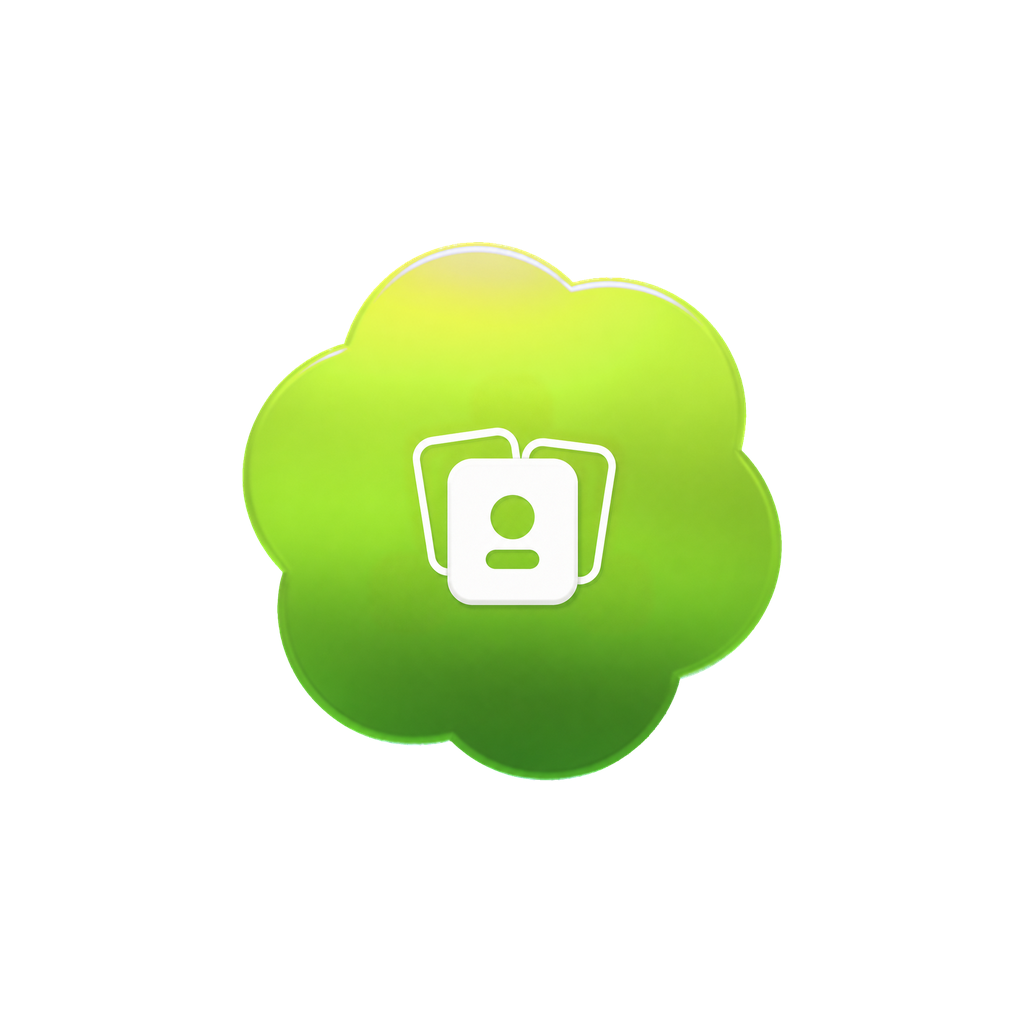
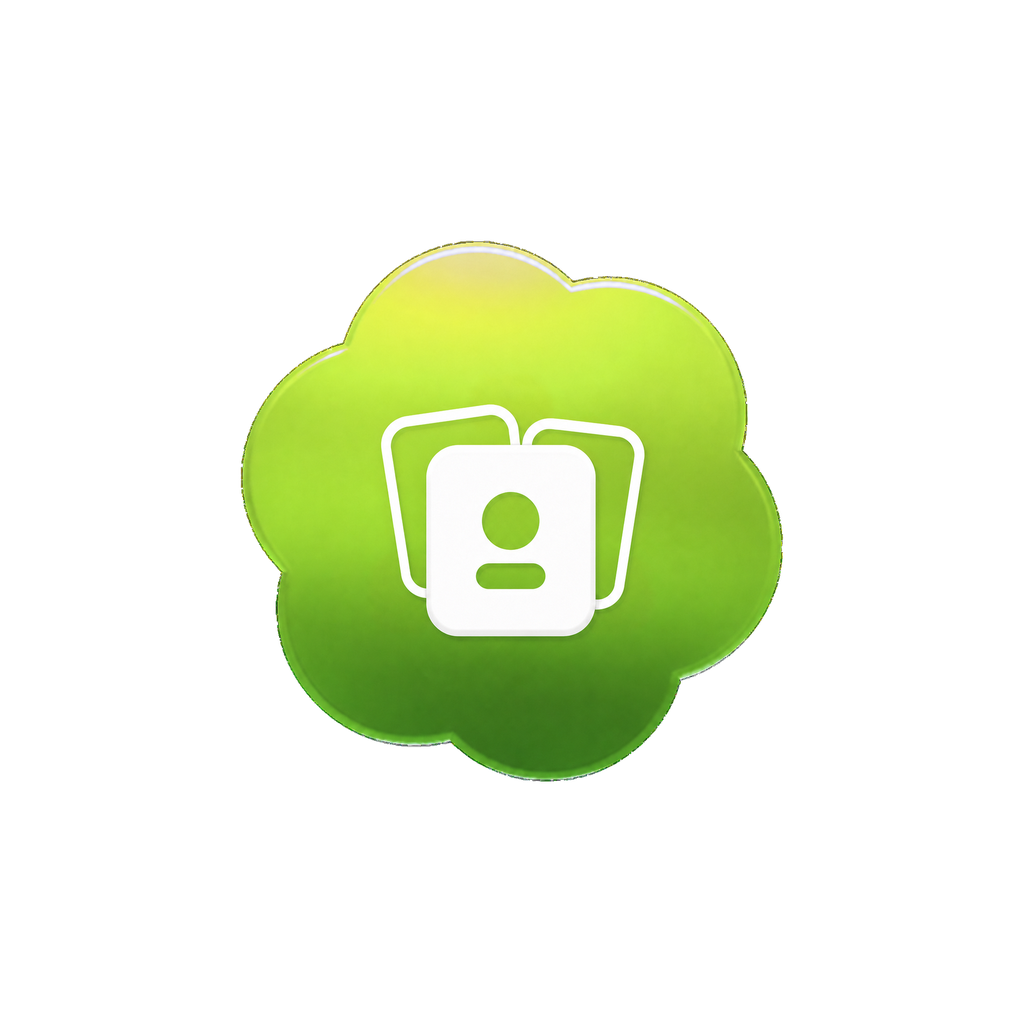
feat: 手机端优化 && logo优化

diff --git a/src/admin/AdminArea.tsx b/src/admin/AdminArea.tsx
@@ -18,6 +18,7 @@ import type {
   AdminDashboardOverview,
   AdminFeedback,
   AdminInvitation,
+  AdminMailService,
   AdminOfficialAccount,
   AdminRole,
   AdminUser,
@@ -905,8 +906,11 @@ function InvitationsPage({ session, profile, onBack }: AdminAreaProps & { onBack
 function FeedbackPage({ session, profile, onBack }: AdminAreaProps & { onBack: () => void }) {
   const [data, setData] = useState<PageResult<AdminFeedback>>(EMPTY_PAGE);
   const [loading, setLoading] = useState(false);
+  const [mailServices, setMailServices] = useState<AdminMailService[]>([]);
+  const [mailServicesLoading, setMailServicesLoading] = useState(false);
   const [selected, setSelected] = useState<AdminFeedback | null>(null);
   const [replying, setReplying] = useState<AdminFeedback | null>(null);
+  const [mailServiceId, setMailServiceId] = useState<string | null>(null);
   const [subject, setSubject] = useState('Codex Switch 问题反馈回复');
   const [content, setContent] = useState('');
   const [replyingBusy, setReplyingBusy] = useState(false);
@@ -917,9 +921,30 @@ function FeedbackPage({ session, profile, onBack }: AdminAreaProps & { onBack: (
     catch (error) { Toast.fail(messageOf(error)); }
     finally { setLoading(false); }
   }, [data.page, data.pageSize, session]);
-  useEffect(() => { void load(1); }, [session]);
+  const loadMailServices = useCallback(async () => {
+    setMailServices([]);
+    setMailServicesLoading(true);
+    try { setMailServices(await adminRequest<AdminMailService[]>(session, '/admin/api/mail-services')); }
+    catch (error) { Toast.fail(`发件服务加载失败：${messageOf(error)}`); }
+    finally { setMailServicesLoading(false); }
+  }, [session]);
+  useEffect(() => {
+    void load(1);
+    void loadMailServices();
+  }, [session]);
+
+  useEffect(() => {
+    if (!replying || mailServicesLoading) return;
+    setMailServiceId((currentId) => {
+      const current = mailServices.find((service) => service.id === currentId);
+      return current?.enabled ? currentId : (mailServices.find((service) => service.enabled)?.id ?? null);
+    });
+  }, [mailServices, mailServicesLoading, replying]);
 
   function openReply(item: AdminFeedback) {
+    const initialService = mailServices.find((service) => service.source === 'default' && service.enabled)
+      ?? mailServices.find((service) => service.enabled);
+    setMailServiceId(initialService?.id ?? null);
     setSubject('Codex Switch 问题反馈回复');
     setContent('');
     setReplying(item);
@@ -927,9 +952,16 @@ function FeedbackPage({ session, profile, onBack }: AdminAreaProps & { onBack: (
 
   async function sendReply() {
     if (!replying || !subject.trim() || !content.trim()) { Toast.fail('请填写主题和回复内容'); return; }
+    if (!mailServices.find((service) => service.id === mailServiceId)?.enabled) {
+      Toast.fail('请选择可用的发件服务');
+      return;
+    }
     setReplyingBusy(true);
     try {
-      await adminRequest(session, `/admin/api/feedback/${replying.id}/email`, { method: 'POST', body: JSON.stringify({ subject, content }) });
+      await adminRequest(session, `/admin/api/feedback/${replying.id}/email`, {
+        method: 'POST',
+        body: JSON.stringify({ subject, content, mailServiceId }),
+      });
       Toast.success('回复邮件已发送');
       setReplying(null);
       setContent('');
@@ -994,10 +1026,51 @@ function FeedbackPage({ session, profile, onBack }: AdminAreaProps & { onBack: (
       tall
       actions={[
         { label: '取消', onPress: () => setReplying(null), disabled: replyingBusy },
-        { label: '发送回复', tone: 'primary', onPress: sendReply, loading: replyingBusy },
+        {
+          label: '发送回复',
+          tone: 'primary',
+          onPress: sendReply,
+          loading: replyingBusy,
+          disabled: mailServicesLoading || !mailServices.find((service) => service.id === mailServiceId)?.enabled,
+        },
       ]}
     >
       <ScrollView style={styles.sheetScroll} keyboardShouldPersistTaps="handled">
+        <Text style={styles.fieldLabel}>发件服务</Text>
+        {mailServicesLoading ? <View style={styles.mailServiceLoading}>
+          <ActivityIndicator color={COLORS.primary} size="small" />
+          <Text style={styles.mailServiceLoadingText}>正在加载发件服务</Text>
+        </View> : mailServices.length ? <View style={styles.mailServiceList}>
+          {mailServices.map((service) => {
+            const checked = service.id === mailServiceId;
+            return <Pressable
+              key={service.id ?? 'default'}
+              accessibilityRole="radio"
+              accessibilityState={{ selected: checked, disabled: !service.enabled }}
+              disabled={!service.enabled || replyingBusy}
+              onPress={() => setMailServiceId(service.id)}
+              style={({ pressed }) => [
+                styles.mailServiceRow,
+                checked && styles.mailServiceRowActive,
+                !service.enabled && styles.disabled,
+                pressed && styles.pressed,
+              ]}
+            >
+              <View style={[styles.radio, checked && styles.radioSelected]}>
+                {checked ? <View style={styles.radioDot} /> : null}
+              </View>
+              <View style={styles.mailServiceCopy}>
+                <Text style={styles.mailServiceName} numberOfLines={1}>
+                  {service.source === 'default' ? '默认服务' : service.name}
+                </Text>
+                <Text style={styles.mailServiceMeta} numberOfLines={2}>
+                  {service.fromAddress ? `发件人：${service.fromAddress}` : '未配置发件人'}
+                  {!service.enabled ? ' · 已停用' : ''}
+                </Text>
+              </View>
+            </Pressable>;
+          })}
+        </View> : <Text style={styles.mailServiceEmpty}>暂无可用的发件服务，请刷新后重试</Text>}
         <Field label="邮件主题" value={subject} onChangeText={setSubject} />
         <Field label="回复内容" value={content} onChangeText={setContent} multiline placeholder="输入对用户问题的回复…" />
       </ScrollView>
@@ -1268,6 +1341,18 @@ const styles = StyleSheet.create({
   input: { minHeight: 48, borderWidth: 1, borderColor: '#d6e0da', borderRadius: 13, color: COLORS.ink, backgroundColor: '#f9fbfa', paddingHorizontal: 13, paddingVertical: 11, fontSize: 14 },
   textarea: { minHeight: 130, lineHeight: 21 },
   fieldHint: { color: COLORS.faint, fontSize: 10, lineHeight: 15, marginTop: 6 },
+  mailServiceLoading: { minHeight: 62, flexDirection: 'row', alignItems: 'center', justifyContent: 'center', gap: 8, borderRadius: 14, backgroundColor: COLORS.canvas, marginBottom: 16 },
+  mailServiceLoadingText: { color: COLORS.muted, fontSize: 12 },
+  mailServiceList: { marginBottom: 16 },
+  mailServiceRow: { minHeight: 62, flexDirection: 'row', alignItems: 'center', borderRadius: 14, borderWidth: 1, borderColor: COLORS.border, backgroundColor: '#f9fbfa', paddingHorizontal: 12, marginBottom: 8 },
+  mailServiceRowActive: { borderColor: '#77c8b5', backgroundColor: '#f0faf6' },
+  radio: { width: 22, height: 22, borderRadius: 11, borderWidth: 1.5, borderColor: '#aebdb5', alignItems: 'center', justifyContent: 'center' },
+  radioSelected: { borderColor: COLORS.primary },
+  radioDot: { width: 12, height: 12, borderRadius: 6, backgroundColor: COLORS.primary },
+  mailServiceCopy: { flex: 1, minWidth: 0, marginLeft: 11 },
+  mailServiceName: { color: COLORS.ink, fontSize: 13, fontWeight: '800' },
+  mailServiceMeta: { color: COLORS.faint, fontSize: 10, lineHeight: 15, marginTop: 3 },
+  mailServiceEmpty: { color: COLORS.faint, fontSize: 12, lineHeight: 18, textAlign: 'center', borderRadius: 14, backgroundColor: COLORS.canvas, padding: 16, marginBottom: 16 },
   switchRow: { minHeight: 66, flexDirection: 'row', alignItems: 'center', justifyContent: 'space-between', borderRadius: 14, backgroundColor: COLORS.canvas, paddingHorizontal: 13, marginBottom: 16 },
   switchCopy: { flex: 1, marginRight: 12 },
   switchLabel: { color: COLORS.ink, fontSize: 13, fontWeight: '800' },

diff --git a/src/types.ts b/src/types.ts
@@ -123,6 +123,21 @@ export interface AdminFeedback {
   createdAt: string;
 }
 
+export interface AdminMailService {
+  id: string | null;
+  source: 'default' | 'custom';
+  name: string;
+  host: string;
+  port: number;
+  secure: boolean;
+  username: string;
+  fromAddress: string;
+  enabled: boolean;
+  hasPassword: boolean;
+  updatedByEmail?: string | null;
+  updatedAt?: string | null;
+}
+
 export interface AdminUser {
   id: string;
   email: string;
